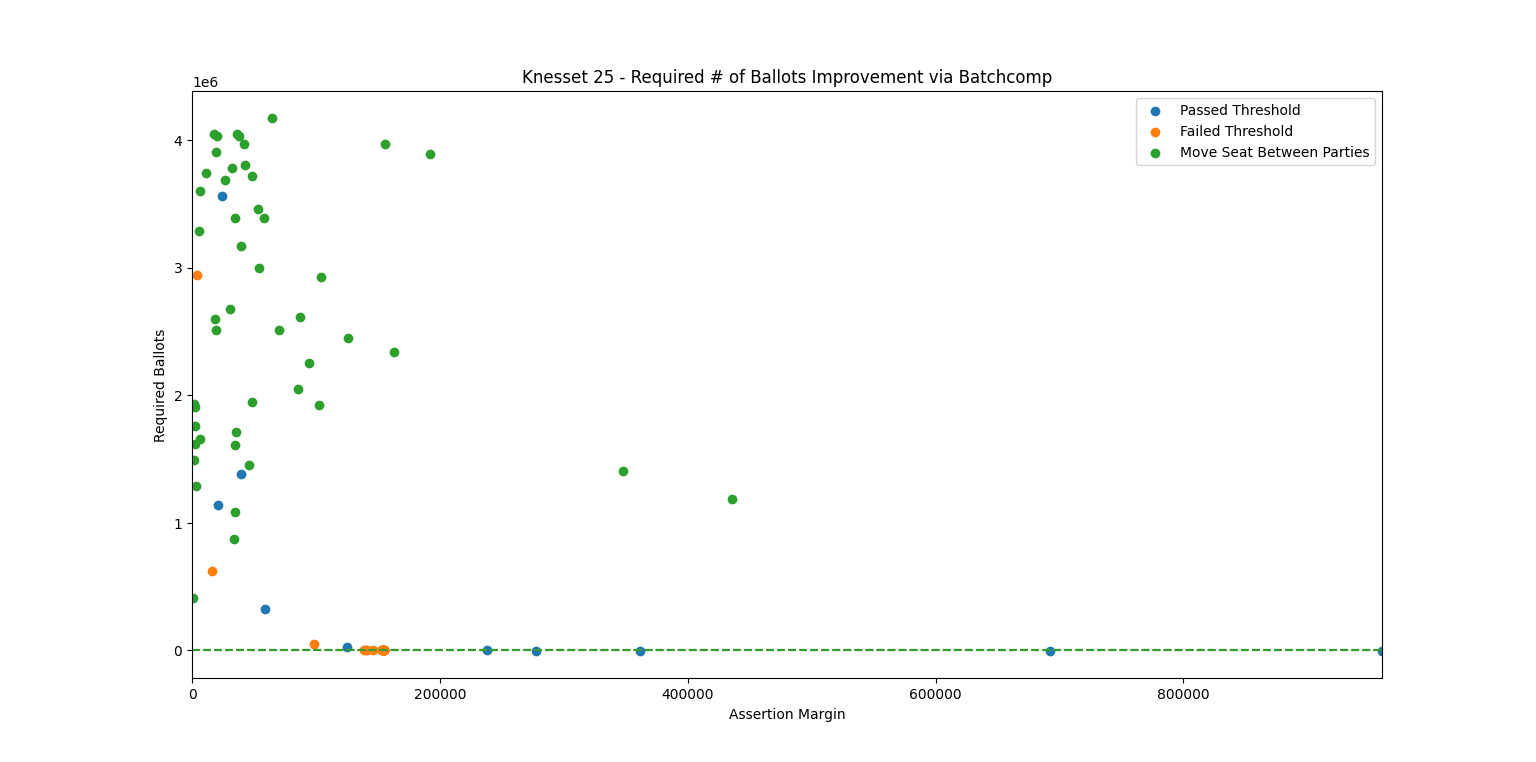
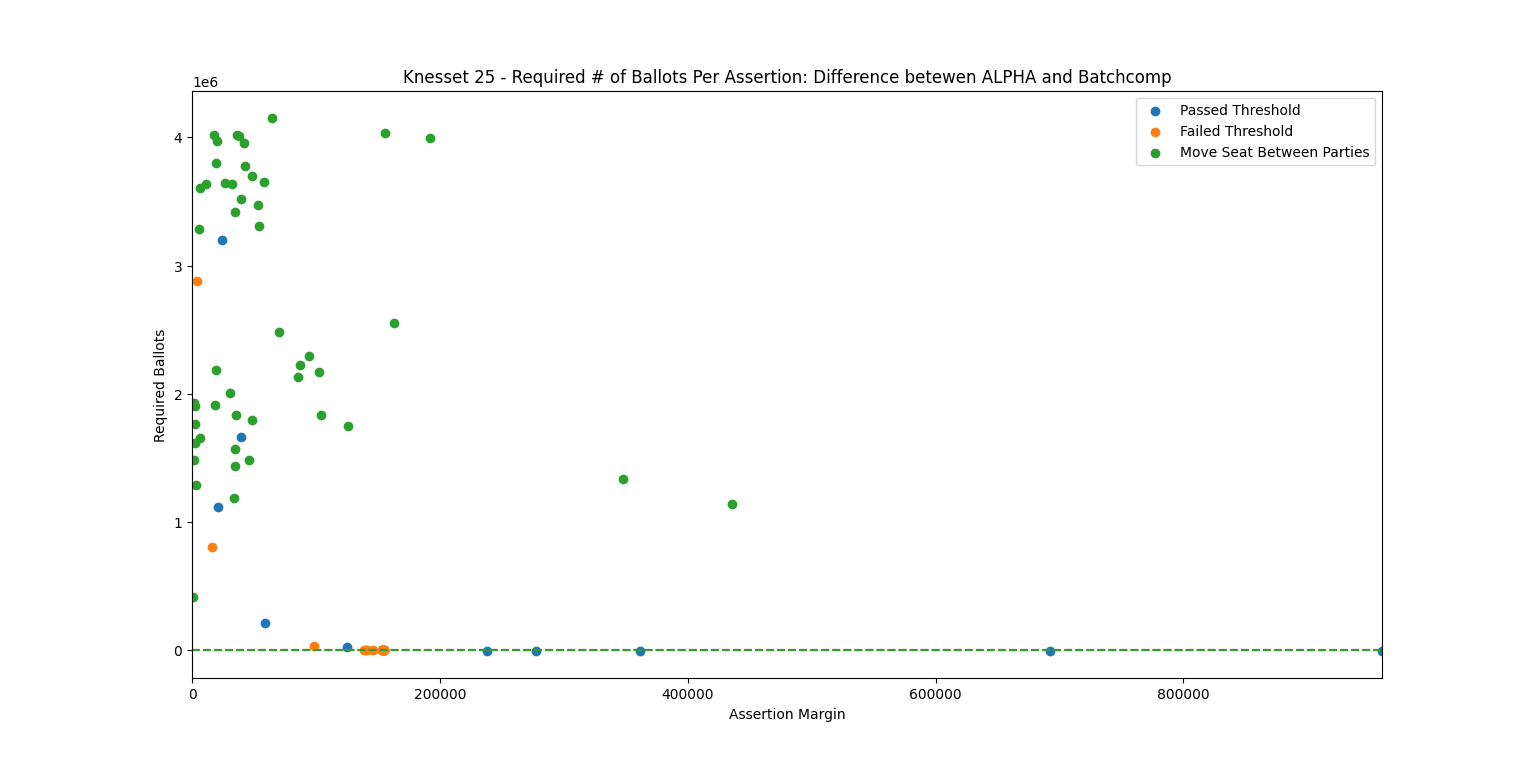
Final touches on plotter

diff --git a/Plotter.py b/Plotter.py
@@ -3,8 +3,6 @@ from Assorter import Assorter
 import matplotlib.pyplot as plt
 import numpy as np
 
-
-ELECTION_NAME = "Knesset 25"
 ASSERTION_LABELS = ['Passed Threshold', 'Failed Threshold', 'Move Seat Between Parties']
 
 # Assertion dictionary indexes
@@ -14,63 +12,32 @@ BATCHCOMP_REQ_BALLOTS_IND = 2
 MARGIN_IND = 3
 
 
-def assertions_plot(assertions, total_voters):
-    required_ballots_moveseat = []
-    margin_moveseat = []
-    required_ballots_threshold = []
-    margin_threshold = []
-    required_ballots_failed = []
-    margin_failed = []
-
-    for assertion in assertions:
-        if assertion.type == 1:
-            required_ballots_threshold.append(assertion.ballots_examined)
-            margin_threshold.append(assertion.vote_margin)
-        elif assertion.type == 2:
-            required_ballots_failed.append(assertion.ballots_examined)
-            margin_failed.append(assertion.vote_margin)
-        elif assertion.type == 3:
-            required_ballots_moveseat.append(assertion.ballots_examined)
-            margin_moveseat.append(assertion.vote_margin)
-
-    max_margin = max(margin_failed + margin_moveseat + margin_threshold)
-    plt.scatter(margin_threshold, required_ballots_threshold, label='Passed Threshold')
-    plt.scatter(margin_failed, required_ballots_failed, label='Failed Threshold')
-    plt.scatter(margin_moveseat, required_ballots_moveseat, label='Move Seat Between Parties')
-    plt.plot([0, max_margin],
-             [total_voters, total_voters], '--',
-             label='Total Voters')
-    plt.xlim((-10000, max_margin + 10000))
-    plt.legend()
-    plt.title(ELECTION_NAME + ' - Required # of Ballots vs. Assorter Margin')
-    plt.xlabel("Assertion Margin")
-    plt.ylabel("Required Ballots")
-    plt.show()
-
-
-def assertions_comparison_plots(alpha_assertions, batchcomp_assertions, total_voters):
-    assert len(alpha_assertions) == len(batchcomp_assertions)
+def assertions_comparison_plots(alpha_assertions_list, batchcomp_assertions_list, total_voters, knesset_num):
     assertion_data = dict()  # Contains lists of required ballots using ALPHA / batchcomp and the assertion's margin
 
     # Create dictionary of assertions that holds the # of audited ballots for each method
-    for i, assertion in enumerate(alpha_assertions):
-        if assertion.type == 1 or assertion.type == 2:
-            name = (assertion.party, '-')
-        else:
-            name = (assertion.party_from, assertion.party_to)
-        assertion_data[name] = [0]*4
-        assertion_data[name][ASSERTION_TYPE_IND] = assertion.type
-        assertion_data[name][ALPHA_REQ_BALLOTS_IND] = assertion.ballots_examined
-        assertion_data[name][MARGIN_IND] = assertion.vote_margin
+    for alpha_assertions in alpha_assertions_list:
+        for i, assertion in enumerate(alpha_assertions):
+            if assertion.type == 1 or assertion.type == 2:
+                name = (assertion.party, '-')
+            else:
+                name = (assertion.party_from, assertion.party_to)
+            if name not in assertion_data:
+                assertion_data[name] = [0]*4
+                assertion_data[name][ASSERTION_TYPE_IND] = assertion.type
+                assertion_data[name][MARGIN_IND] = assertion.vote_margin
+            assertion_data[name][ALPHA_REQ_BALLOTS_IND] += assertion.ballots_examined
 
-    for assertion in batchcomp_assertions:
-        if assertion.type == 1 or assertion.type == 2:
-            name = (assertion.party, '-')
-        else:
-            name = (assertion.party_from, assertion.party_to)
-        assertion_data[name][BATCHCOMP_REQ_BALLOTS_IND] = assertion.ballots_examined
+    for batchcomp_assertions in batchcomp_assertions_list:
+        for assertion in batchcomp_assertions:
+            if assertion.type == 1 or assertion.type == 2:
+                name = (assertion.party, '-')
+            else:
+                name = (assertion.party_from, assertion.party_to)
+            assertion_data[name][BATCHCOMP_REQ_BALLOTS_IND] += assertion.ballots_examined
 
     assertion_data_mat = np.array(list(assertion_data.values()))
+    assertion_data_mat[:, [ALPHA_REQ_BALLOTS_IND, BATCHCOMP_REQ_BALLOTS_IND]] /= len(alpha_assertions_list)  # Average over all repetitions
     max_margin = max(assertion_data_mat[:, MARGIN_IND])
 
     # Plot comparison
@@ -82,9 +49,8 @@ def assertions_comparison_plots(alpha_assertions, batchcomp_assertions, total_vo
     axs[0].plot([0, max_margin], [total_voters, total_voters], '--', label='Total Voters')
     axs[1].plot([0, max_margin], [total_voters, total_voters], '--', label='Total Voters')
     axs[0].set_xlim((0, max_margin + total_voters / 10**5))
-    #axs[0].set_xscale('log')
     axs[0].legend()
-    fig.suptitle(ELECTION_NAME + ' - Required # of Ballots vs. Assorter Margin')
+    fig.suptitle("Knesset " + str(knesset_num) + ' - Required # of Ballots vs. Assorter Margin')
     axs[0].set_title("ALPHA-Batch")
     axs[1].set_title("Batchcomp")
     fig.supxlabel("Assertion Margin")
@@ -99,7 +65,7 @@ def assertions_comparison_plots(alpha_assertions, batchcomp_assertions, total_vo
         plt.plot([0, max_margin], [0, 0], '--')
     plt.xlim((-total_voters / 10**5, max_margin + total_voters / 10**5))
     plt.legend()
-    plt.title(ELECTION_NAME + ' - Required # of Ballots Per Assertion: Difference betewen ALPHA and Batchcomp')
+    plt.title("Knesset " + str(knesset_num) + ' - Required # of Ballots Per Assertion: Difference Betewen ALPHA and Batchcomp')
     plt.xlabel("Assertion Margin")
     plt.ylabel("Required Ballots")
     plt.show()

diff --git a/Main.py b/Main.py
@@ -5,16 +5,19 @@ import numpy as np
 import matplotlib.pyplot as plt
 import Plotter
 
-
 # Constants
-APPARENTMENTS = [("Hamahane Hamamlahti", "Yesh Atid"), ("Likud", "Tziyonut Detit"), ("Shas", "Yahadut Hatora")] # ("Balad", "Hadash Taal"), ("Yisrael Beytenu", "Raam")
-#APPARENTMENTS = [("Avoda", "Meretz"), ("Yemina", "Tikva Hadasha"), ("Yesh Atid", "Yisrael Beytenu"), ("Likud", "Tziyonut Detit"), ("Shas", "Yahadut Hatora")] # 24!
-#APPARENTMENTS = [('Likud', 'Yemina'), ('Avoda', 'Kahol Lavan'), ('Yahadut Hatora', 'Shas')]  # 23!
-#APPARENTMENTS = [('Kahol Lavan', 'Yisrael Beytenu'), ('Likud', 'Yemina'), ('Avoda', 'Meretz'), ('Yahadut Hatora', 'Shas')]  # 22!
+KNESSET_NUM = 22
+APPARENTMENTS = dict()
+APPARENTMENTS[25] = [("Hamahane Hamamlahti", "Yesh Atid"), ("Likud", "Tziyonut Detit"), ("Shas", "Yahadut Hatora")] # ("Balad", "Hadash Taal"), ("Yisrael Beytenu", "Raam")
+APPARENTMENTS[24] = [("Avoda", "Meretz"), ("Yemina", "Tikva Hadasha"), ("Yesh Atid", "Yisrael Beytenu"), ("Likud", "Tziyonut Detit"), ("Shas", "Yahadut Hatora")]
+APPARENTMENTS[23] = [('Likud', 'Yemina'), ('Avoda', 'Kahol Lavan'), ('Yahadut Hatora', 'Shas')]
+APPARENTMENTS[22] = [('Kahol Lavan', 'Yisrael Beytenu'), ('Likud', 'Yemina'), ('Avoda', 'Meretz'), ('Yahadut Hatora', 'Shas')]
 THRESHOLD = 0.0325
 SEATS = 120
 ALPHA = 0.05
-RESULTS_FILE = "Results 25.csv"
+RESULTS_FILE = 'Results ' + str(KNESSET_NUM) + '.csv'
+ELECTION_NAME = "Knesset " + str(KNESSET_NUM)
+
 
 """
 def plurality_race():
@@ -26,7 +29,6 @@ def plurality_race():
         auditor = PluralityAuditor(profile, ALPHA)
         ballot_counter += auditor.ballot_audit()
     print(ballot_counter / 1000)
-"""
 
 
 def make_batchcomp_plot(profile, alpha=ALPHA, threshold=THRESHOLD):
@@ -34,14 +36,23 @@ def make_batchcomp_plot(profile, alpha=ALPHA, threshold=THRESHOLD):
     audit_approves, assertions = auditor.batch_audit()
     if audit_approves:
         Plotter.assertions_plot(assertions, profile.tot_batch.total_votes)
+"""
 
-def make_comp_plot(profile, alpha=ALPHA, threshold=THRESHOLD):
-    batchcomp_auditor = Auditor(profile, alpha, threshold)
-    alpha_auditor = Auditor(profile, alpha, threshold, bathcomp=False)
-    batchcomp_audit_approves, batchcomp_assertions = batchcomp_auditor.batch_audit()
-    alpha_audit_approves, alpha_assertions = alpha_auditor.batch_audit()
-    if batchcomp_audit_approves and alpha_audit_approves:
-        Plotter.assertions_comparison_plots(alpha_assertions, batchcomp_assertions, profile.tot_batch.total_votes)
+
+
+def make_comp_plot(profile, reps=10, alpha=ALPHA, threshold=THRESHOLD):
+    batchcomp_assertions_list = []
+    alpha_assertions_list = []
+    for rep in range(reps):
+        batchcomp_auditor = Auditor(profile, alpha, threshold)
+        alpha_auditor = Auditor(profile, alpha, threshold, bathcomp=False)
+        batchcomp_audit_approves, batchcomp_assertions = batchcomp_auditor.batch_audit()
+        alpha_audit_approves, alpha_assertions = alpha_auditor.batch_audit()
+        assert alpha_audit_approves and batchcomp_audit_approves
+        alpha_assertions_list.append(alpha_assertions)
+        batchcomp_assertions_list.append(batchcomp_assertions)
+
+    Plotter.assertions_comparison_plots(alpha_assertions_list, batchcomp_assertions_list, profile.tot_batch.total_votes, KNESSET_NUM)
 
 
 
@@ -86,7 +97,7 @@ def old_plot(profile, reps=1):
 
 
 if __name__ == "__main__":
-    election_profile = ElectionProfile(RESULTS_FILE, THRESHOLD, SEATS, APPARENTMENTS, shuffle_true_tallies=False,
+    election_profile = ElectionProfile(RESULTS_FILE, THRESHOLD, SEATS, APPARENTMENTS[KNESSET_NUM], shuffle_true_tallies=False,
                               redraw_tallies=False)
     make_comp_plot(election_profile)
 
